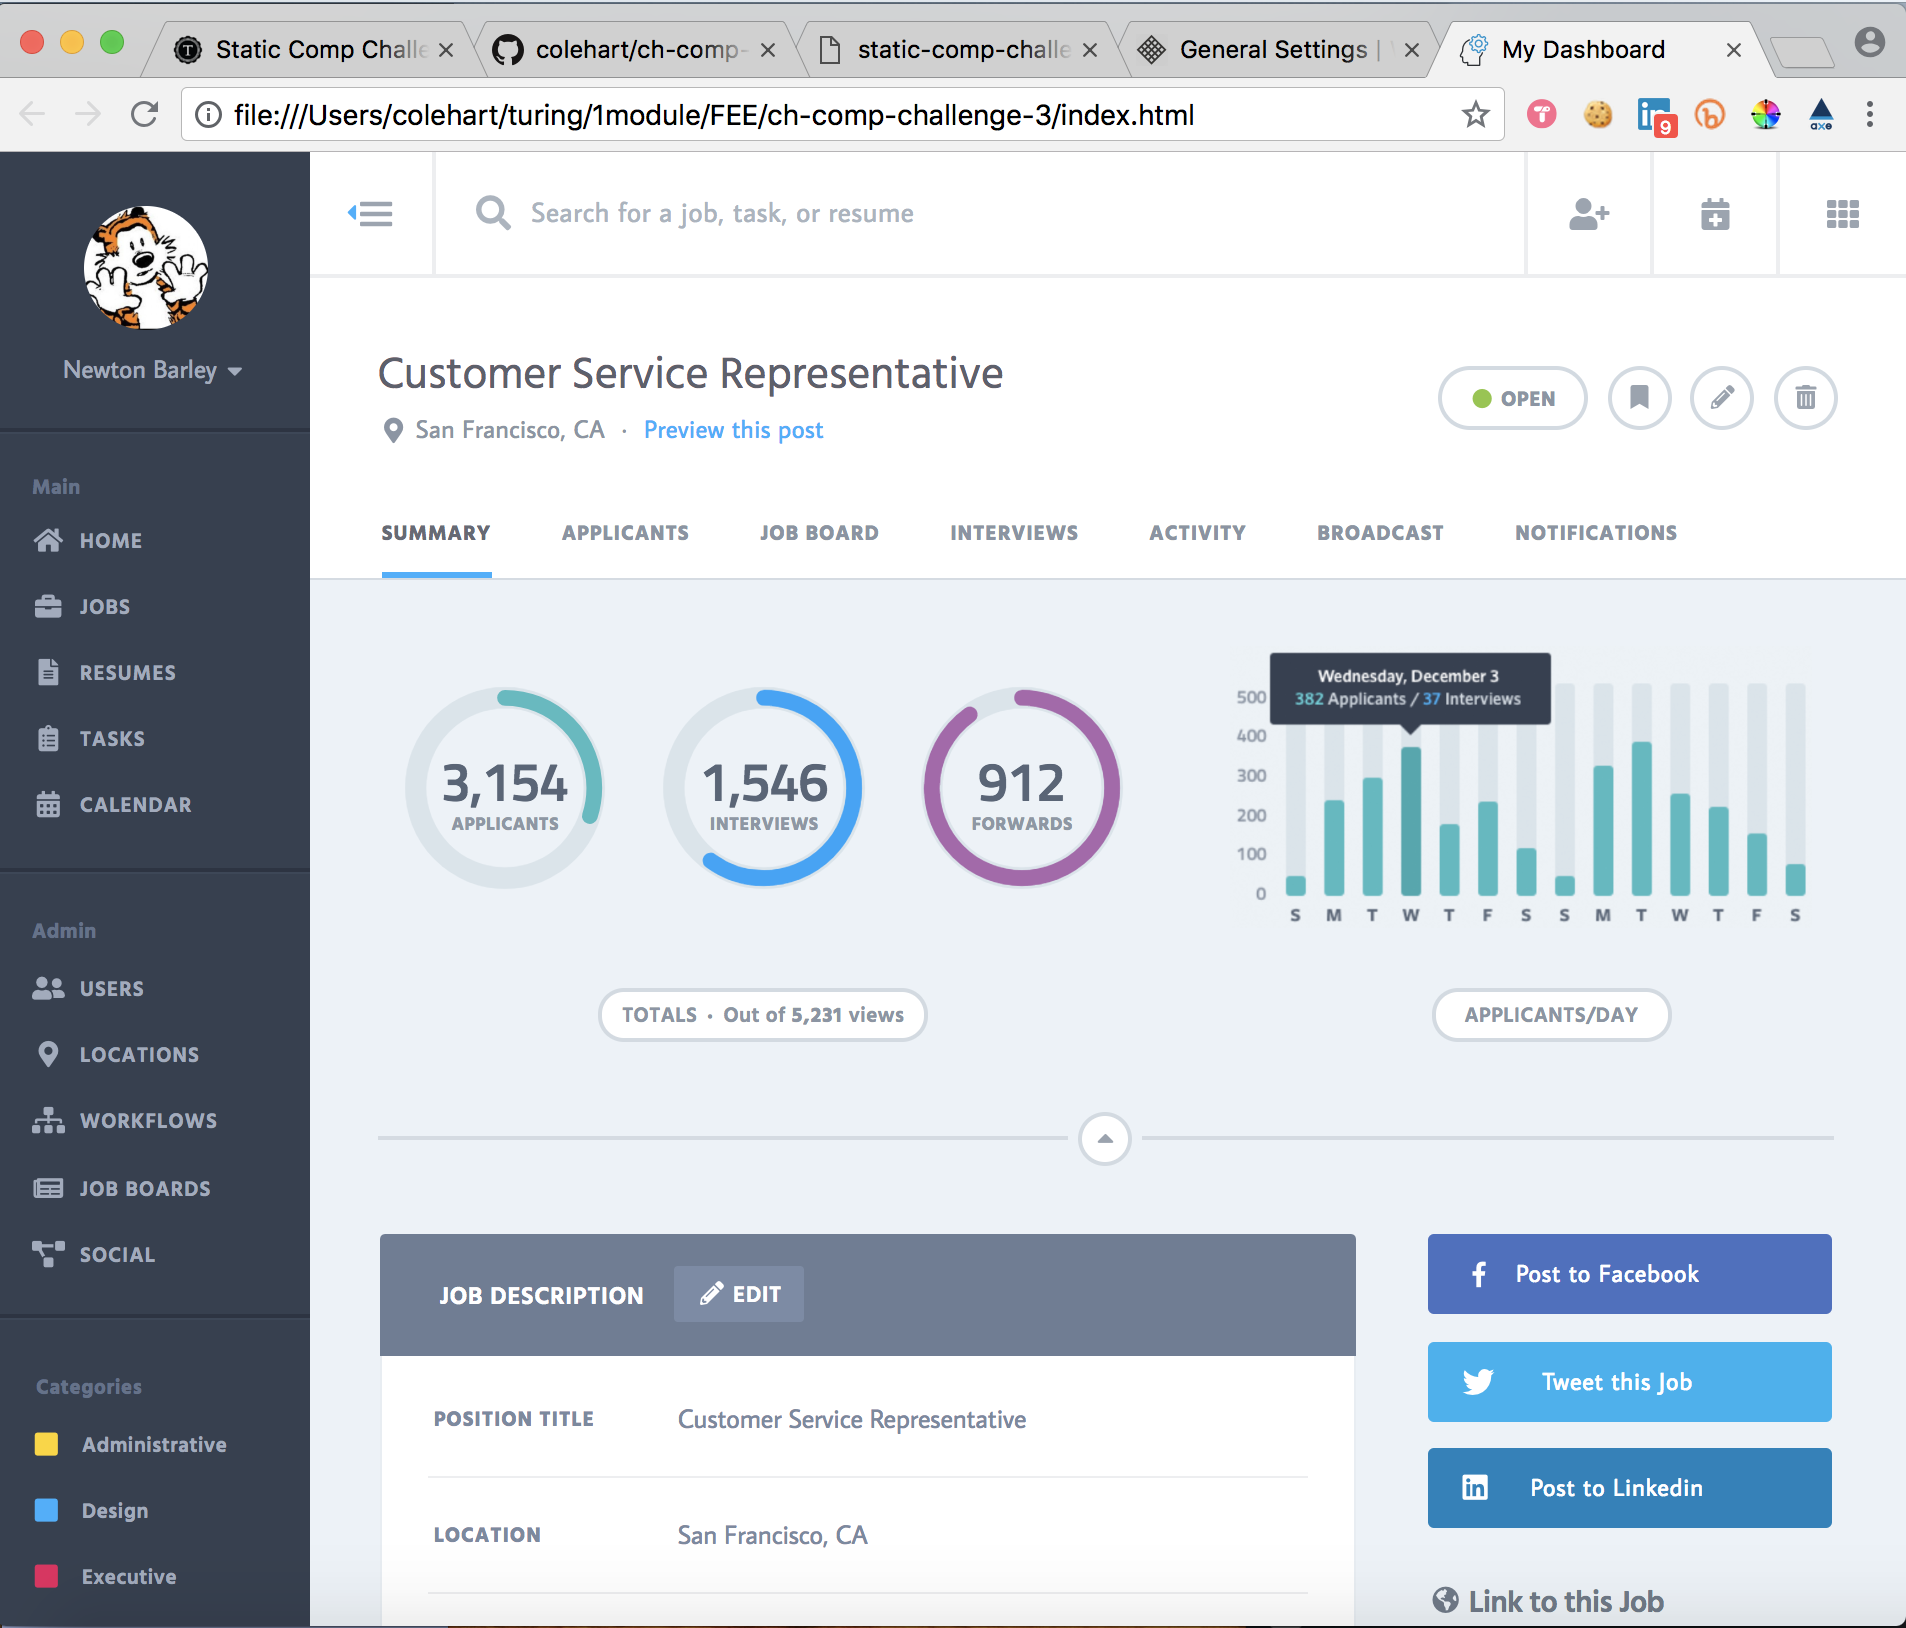
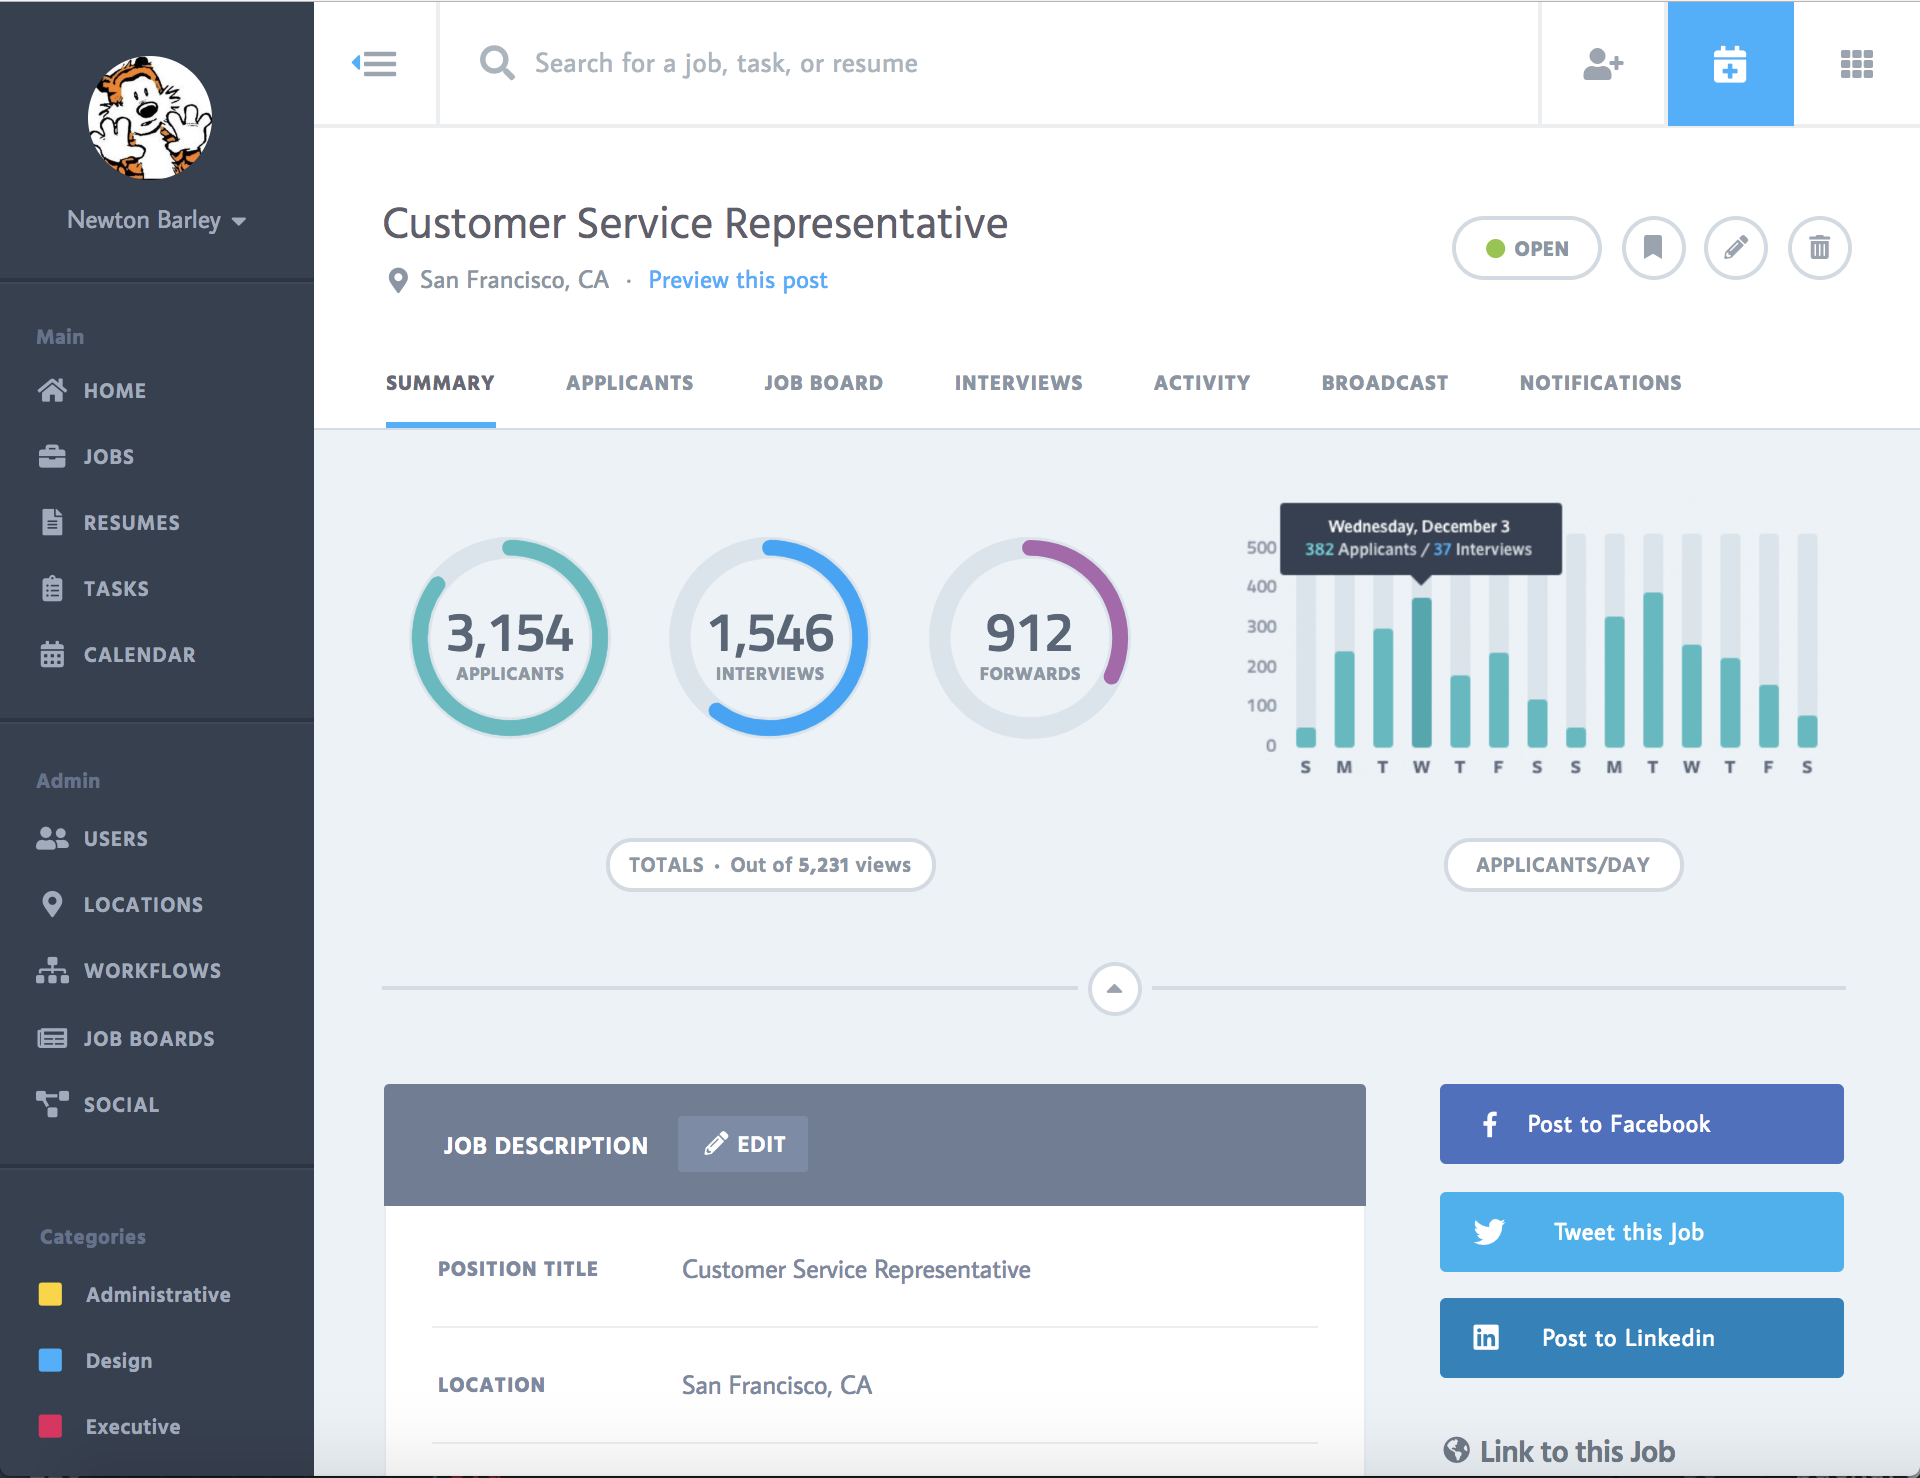
Update SVG graphics and README screenshot

diff --git a/index.html b/index.html
@@ -170,7 +170,7 @@
                       a 15.9155 15.9155 0 0 1 0 -31.831"
                   />
                   <path class="circle"
-                    stroke-dasharray="30, 100"
+                    stroke-dasharray="85, 100"
                     d="M18 2.0845
                       a 15.9155 15.9155 0 0 1 0 31.831
                       a 15.9155 15.9155 0 0 1 0 -31.831"
@@ -212,7 +212,7 @@
                       a 15.9155 15.9155 0 0 1 0 -31.831"
                   />
                   <path class="circle"
-                    stroke-dasharray="90, 100"
+                    stroke-dasharray="32, 100"
                     d="M18 2.0845
                       a 15.9155 15.9155 0 0 1 0 31.831
                       a 15.9155 15.9155 0 0 1 0 -31.831"
